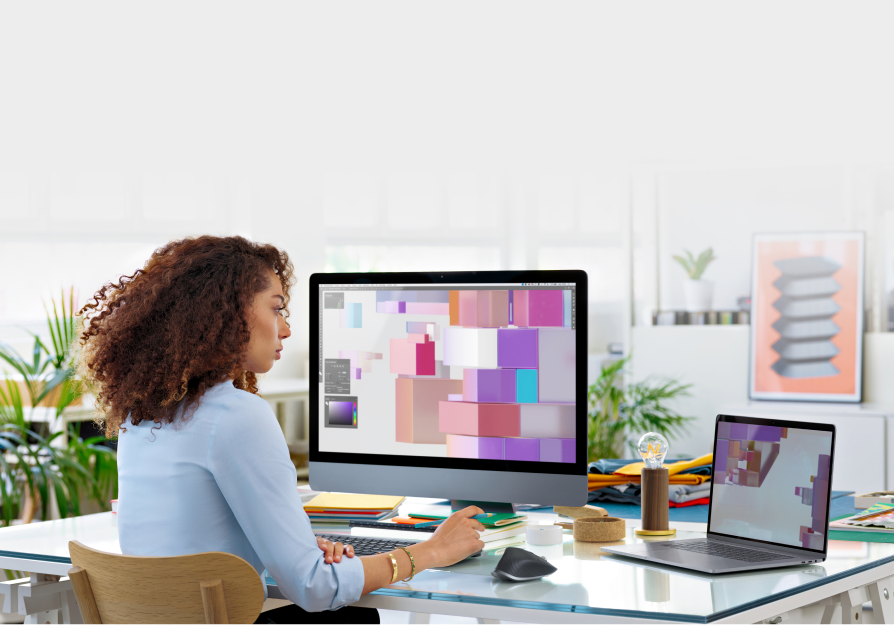
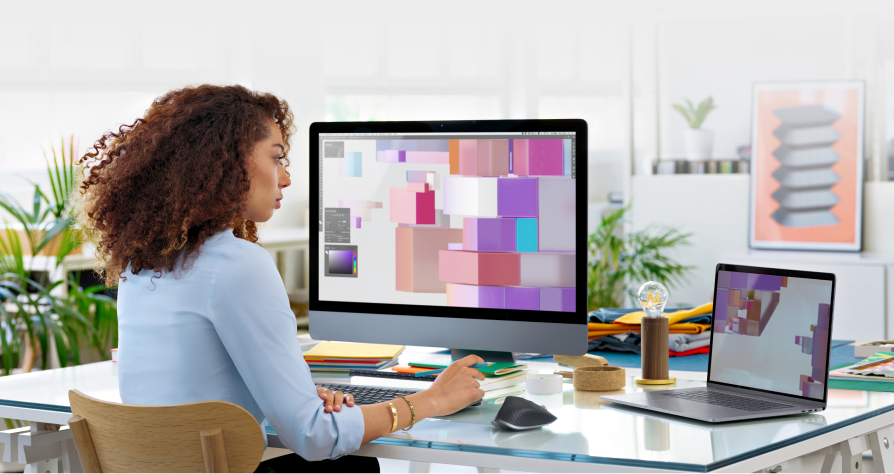
correction size

diff --git a/style.css b/style.css
@@ -211,17 +211,13 @@ body {
 }
 
 .flow {
-   padding-top: 70px;
-   padding-bottom: 198px;
-   background-image: url(img/High_Resolution_JPG-MX\ Lifestyle\ 2346\ 1_mob.png);
-   background-size: 117%;
-   background-repeat: no-repeat;
-   background-position: center bottom;
+   padding-top: 70px;  
    background-color: #EDEDED;
 }
 
 .flow__ol {
    margin-top: 36px;
+     
    padding-left: 54px;
    list-style-position: inside;
 }
@@ -235,6 +231,10 @@ body {
 
 .flow__p {
    margin-bottom: 15px;
+}
+
+.flow__img {
+   width: 100%;
 }
 
 .settings {
@@ -369,7 +369,7 @@ body {
    }
 
    .bluetooth__icon {
-      margin-bottom: 39px;
+      margin-bottom: 43px;
    }
 
    .bluetooth__heading {
@@ -381,13 +381,13 @@ body {
    }
 
    .bluetooth__img {
-      height: 597px;
+      height: 593px;
       margin-left: 39px;
       margin-right: 19px;
    }
 
    .bluetooth__img_mouse {
-      width: 100%;
+      width: 850px;
    }
 
    .info {
@@ -417,12 +417,12 @@ body {
    }
 
    .carousel {
-      margin-bottom: 50px;
+      margin-bottom: 48px;
    }
 
    .info__text {
-      margin-left: 77px;
-      margin-right: 77px;
+      margin-left: 90px;
+      margin-right: 90px;
    }
 
    .info__text_margin {
@@ -456,20 +456,18 @@ body {
       right: 138px;
    }
 
-   .flow {
-      background-image: url(img/High_Resolution_JPG-MX\ Lifestyle\ 2346\ 1-tablet.png);
-      padding-bottom: 465px;
-      background-size: contain;
-      padding-left: 67px;
-      padding-right: 68px;
+   .flow__heading_tablet {
+      margin-left: 129px;
+      margin-right: 129px;
    }
 
    .flow__ol {
       margin-top: 70px;
+      margin-bottom: 5px;
       display: flex;
       justify-content: flex-start;
-      padding-left: 0;
-      padding-right: 0;
+      padding-left: 67px;
+      padding-right:68px;
    }
 
    .flow__text {
@@ -496,8 +494,8 @@ body {
    }
 
    .flow__p {
-      margin-left: 0;
-      margin-right: 0;
+      margin-left: 77px;
+      margin-right: 77px;
       margin-bottom: 25px;
    }
 

diff --git a/index.html b/index.html
@@ -129,7 +129,7 @@
 
    </section>
    <section class="flow">
-      <h2 class="heading">ОДНОВРЕМЕННО С НЕСКОЛЬКИХ УСТРОЙСТВ</h2>
+      <h2 class="heading flow__heading_tablet">ОДНОВРЕМЕННО С НЕСКОЛЬКИХ УСТРОЙСТВ</h2>
       <p class="text text_margin flow__p">С технологией Flow вы сможете работать одновременно на нескольких компьютерах,
          мгновенно
          переключаясь между разными операционными системами — даже между Windows® и macOS.
@@ -147,6 +147,7 @@
             из соседних экранов</li>
          <li class="text flow__text">Да, всё так просто!</li>
       </ol>
+      <img class="flow__img" src="img/High_Resolution_JPG-MX Lifestyle 2346 1_mob.png" alt="flow">
    </section>
    <section class="settings">
       <h2 class="heading settings__heading">С ИНДИВИДУАЛЬНЫМИ НАСТРОЙКАМИ</h2>
